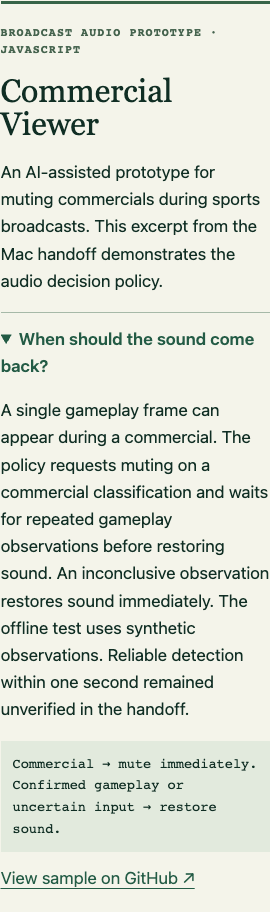
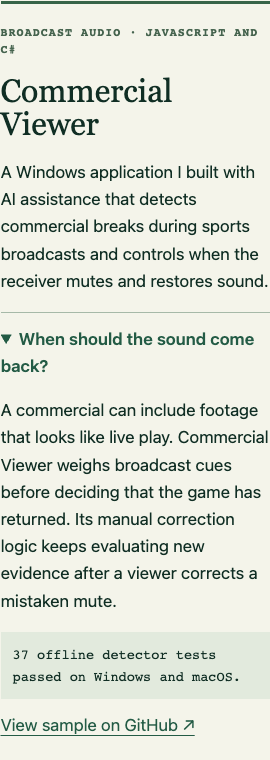
Describe Commercial Viewer as a Windows application

Changed region(s): [[0.0, 0.0303, 1.0, 0.9987], [0.8593, 0.0303, 0.9481, 0.0605], [0.9185, 0.7263, 0.9481, 0.7868]]

diff --git a/README.md b/README.md
@@ -1,23 +1,25 @@
-# Commercial Viewer · Audio decision policy
+# Commercial Viewer · Windows detector components
 
-An AI-assisted prototype for muting commercials during sports broadcasts. The [Windows detector components](windows/README.md) include the break policy, correction handling, evidence collection, audio fingerprints and offline tests. The smaller example below comes from the original Mac handoff.
+A Windows application I built with AI assistance that detects commercial breaks during sports broadcasts and controls when the receiver mutes and restores sound.
 
 ## Engineering decision
 
-A single gameplay frame can appear during a commercial. The policy requests muting on a commercial classification and waits for repeated gameplay observations before restoring sound. An inconclusive observation restores sound immediately. The offline test uses synthetic observations. Reliable detection within one second remained unverified in the handoff.
+A commercial can include footage that looks like live play. Commercial Viewer weighs broadcast cues before deciding that the game has returned. Its manual correction logic keeps evaluating new evidence after a viewer corrects a mistaken mute.
 
 ![Portfolio case study](case-study.png)
 
 ## Run the standalone sample
 
-Use Node.js 20 or newer from the repository directory. The sample uses the standard library and runs offline.
+Use Node.js 24 from the repository directory. The sample uses the standard library and runs offline.
 
 ```sh
-node mute-policy-test.mjs
+node --test "windows/vision-fast/*.test.mjs"
 ```
 
-Commercial → mute immediately. Confirmed gameplay or uncertain input → restore sound.
+37 offline detector tests passed on Windows and macOS.
 
-This repository contains the audio decision policy component of the larger project. I developed the project with AI assistance.
+This repository contains the windows detector components component of the larger project. I developed the project with AI assistance.
 
 [Portfolio](https://Egrocket1.github.io) · [GitHub profile](https://github.com/Egrocket1)
+
+[Windows detector source and test instructions](windows/README.md)
